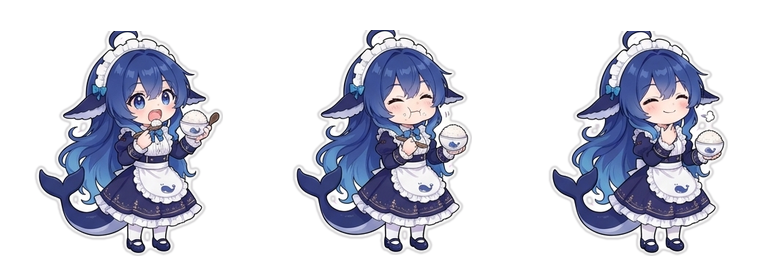
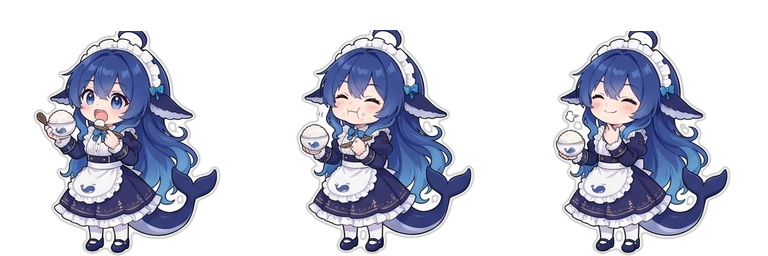
feat(assets): 素材统一朝左基准——walk/eat 镜像 + flip 基准切换
用户指出素材本身有朝向（逐帧像素审计证实：头部左右比显著偏离 1，
且各状态不一致——idle/working/think 等偏左、walk/eat 偏右）。
确立角色契约：素材一律朝左（flip=1 朝左、flip=-1 镜像朝右），
代码不依赖具体角色朝向（第二个角色零代码接入）。walk/eat 逐帧
镜像为偏左；walk/drag 的 flip 映射取反（向右走 flip=-1）；
joy/welcome 帧内朝向不一致（AI 抖动）镜像无效，sprites-spec
标注需重绘。更新 facing 决策（修正『素材无朝向』前提）。
14 门禁全过，冒烟 OK。

diff --git a/client.js b/client.js
@@ -891,7 +891,7 @@
         transientUntil = 0;
         joyUntil = 0;
         layoutStatus();
-        const nextFlip = e.clientX < lastPointerX ? -1 : 1;
+        const nextFlip = e.clientX < lastPointerX ? 1 : -1;
         if (nextFlip !== flip) {
           flip = nextFlip;
           const dragCfg = stateOf(character, "drag");
@@ -995,7 +995,7 @@
     const wander = () => {
       walking = true;
       walkDir = Math.random() < 0.5 ? 1 : -1;
-      flip = walkDir;
+      flip = -walkDir;
       const walkCfg = stateOf(character, "walk");
       if (animState === "walk" && walkCfg && loaded.has(sheetKey(walkCfg.sheet))) showSprite("walk", walkCfg);
       const duration = cfg.walk.minMs + Math.random() * (cfg.walk.maxMs - cfg.walk.minMs);

diff --git a/decisions/implemented/feature/2026-08-09-facing-flip-behavior.md b/decisions/implemented/feature/2026-08-09-facing-flip-behavior.md
@@ -1,29 +1,34 @@
-# Decision: 朝向（flip）行为——动作间连续 + 静态态随机转身
+# Decision: 朝向（flip）行为——素材统一朝左基准 + 动作间连续 + 静态态随机转身
 
 Status: implemented
 
 ## Problem
 
-素材本身无朝向（内容水平居中），朝向完全由 client `flip`（scaleX 翻转）表达。但现状 flip 只在两处写入：walk（随机左右）与 drag（按位移方向），且**只在 `showSprite` 时应用**——静态陪伴态（idle/think/wait）没有朝向概念：不会随机转身，且 flip 变化时若当前是静态态不会刷新 sprite（只有 walk/drag 恰好是当前状态时才重新 showSprite）。用户反馈：「所有图片实际上是有方向的，应该考虑动作间的朝向连续性、随机朝向转换」。
+两轮问题。**第一轮**（已实施）：flip 只在两处写入（walk 随机左右、drag 按位移），只在 `showSprite` 时应用——静态陪伴态（idle/think/wait）没有朝向概念：不会随机转身，flip 变化时不刷新 sprite。**第二轮**（本次）：用户指出「素材本身是有朝向的」——逐帧像素审计证实：素材**不是**正面/对称形象（参考图完全对称，但生成的状态素材头部区左右像素比显著偏离 1：idle 2.5、working 1.9、walk 0.35 等），且**各状态朝向不一致**（idle/working/celebrate/error/disappointed/drag/think/wait 偏左；walk/eat/joy/welcome 偏右或混合）——动作切换时角色「瞬间换脸」。
 
 ## Decision
 
+- **素材统一朝左基准（角色契约，全角色适用）**：所有状态素材人物默认朝左（flip=1 显示朝左、flip=-1 镜像显示朝右）。生图提示模板加「人物朝向一律朝左」；代码 flip 以朝左为基准（walk 向右走 flip=-1、向左走 flip=1；drag 向左拖 flip=1、向右拖 flip=-1；静态态随机转身 flip 翻转）。**代码不依赖具体角色朝向**——第二个角色遵守素材契约即零代码改动（解耦）。
+- **素材修正**：walk/eat 逐帧镜像为偏左（帧内一致，脚本处理）；joy/welcome 帧内朝向不一致（AI 生图抖动）镜像无效，列入重绘待办（sprites-spec 标注）。
 - **动作间朝向连续**：flip 是模块级状态，walk/drag 的方向写入后，静态态（idle/think/wait）沿用其值渲染（setState 的 showSprite 读当前 flip）——不无谓跳回默认方向。
-- **静态态随机转身**：新增纯函数 `nextFacingAt({ now, random })`（间隔 10-25s，L2 语义层代码级）决策转身时刻；tick 里静态态（idle/think/wait）到点时 `flip = -flip` 并 `applyFacing()` 刷新当前 sprite transform（不动帧/背景）；离开静态态清排程（walk/drag/burst/transient 方向由各自行为主导，不随机转）。
-- **`applyFacing` 刷新封装**：复用 showSprite 的 scale 计算，只更新 transform——静态态转身不需要重建 sprite。
+- **静态态随机转身**：新增纯函数 `nextFacingAt({ now, random })`（间隔 10-25s，L2 语义层代码级）决策转身时刻；tick 里静态态（idle/think/wait）到点时 `flip = -flip` 并 `applyFacing()` 刷新当前 sprite transform（不动帧/背景）；离开静态态清排程。
+- **`applyFacing` 刷新封装**：复用 showSprite 的 scale 计算，只更新 transform。
 - 沿用 v3/v4 纪律：随机决策在纯函数（注入随机源、可单测），index.mjs 薄执行。
 
 ## Alternatives considered
 
-**A：素材层面画朝向（多方向图集）。** 素材内容居中且 AI 生图已成本高（每状态每方向重复生成），flip 是零成本方案；且 walk/drag 已用 flip 表达方向——弃。
+**A：素材层面画朝向（多方向图集）。** AI 生图成本高（每状态每方向重复生成）；flip 是零成本方案且已用 flip 表达方向——弃。
 
-**B：静态态不转身，只保持 walk/drag 方向。** 满足连续性但不满足「随机朝向转换」——宠物长时间面朝一个方向不自然（真实宠物会东张西望）——弃。
+**B：静态态不转身，只保持 walk/drag 方向。** 满足连续性但不满足「随机朝向转换」——宠物长时间面朝一个方向不自然——弃。
 
 **C：转身做成独立动画状态（turn）。** 需要新增素材（转身中间帧）、manifest 条目、spec 总表——成本高；flip 翻转本身已是「转身」视觉（sprite 镜像），无需中间帧——弃。
 
+**D：不统一素材（保留各状态朝向），代码按角色/状态归一化。** 代码需知道每个状态朝向（manifest facing 字段 + 运行时镜像），每个新角色都要声明——违背「代码解耦」目标；统一素材朝左是零代码负担的契约——弃。
+
 ## Consequences
 
-- 朝向连续：walk 朝左停下 → idle/think 保持朝左；drag 方向延续。
-- 静态态随机转身（10-25s），宠物不再长时间固定朝向。
-- 测试：新增 `nextFacingAt` 确定性测试（注入随机源，区间边界）；单测 102 条全绿，14 门禁全过。
-- 纯 client 改动：重装 + 刷新生效，无需重启 web。
+- 素材统一朝左：walk/eat 已镜像；joy/welcome 帧内不一致需重绘（sprites-spec 已标注）；代码 flip 基准改为朝左（walk/drag 方向映射取反）。
+- 朝向连续：walk 朝左停下 → idle/think 保持朝左；drag 方向延续；静态态随机转身（10-25s）。
+- 第二个角色零代码接入朝向（只需素材朝左）。
+- 测试：`nextFacingAt` 确定性测试（注入随机源，区间边界）；单测 102 条全绿，14 门禁全过。
+- 素材改动（walk/eat 镜像）+ client 改动：重装 + 刷新生效，无需重启 web。

diff --git a/docs/sprites-spec.md b/docs/sprites-spec.md
@@ -28,7 +28,7 @@
 
 **背景要求（关键）**：**纯绿色 `#00FF00`**——鲸鱼娘配色（蓝/紫/粉）与洋红底在色域重叠（实测反复出现洋红残边/微斑），与绿色**完全不相交**（距离 360+），键抠零歧义。❌ 洋红/粉/紫底（与角色配色冲突）；❌ 白/浅灰底；❌ "透明背景"提示（Gemini 只画假透明棋盘格）。
 
-> 生成一张 1024×1024 的贴纸插画：背景为**纯绿色（#00FF00）**，无渐变/纹理/杂色。角色是《鲸鱼娘》表情包角色，画风、配色、线条比例与参考图完全一致，角色本身**不得含洋红色**；全身取景、居中、占画面约 80%。**<状态画面描述>**。需要动感的状态加一句："画面为 **N 个动作帧横排**（从左到右依次为动作过程），帧间等宽、互不重叠、无分割线"。
+> 生成一张 1024×1024 的贴纸插画：背景为**纯绿色（#00FF00）**，无渐变/纹理/杂色。角色是《鲸鱼娘》表情包角色，画风、配色、线条比例与参考图完全一致，角色本身**不得含洋红色**；全身取景、居中、占画面约 80%，**人物朝向一律朝左**（统一素材朝向基准，见「朝向与素材朝向规范」）。**<状态画面描述>**。需要动感的状态加一句："画面为 **N 个动作帧横排**（从左到右依次为动作过程），帧间等宽、互不重叠、无分割线"。
 
 | 状态 | 帧数 | 画面描述 |
 |---|---|---|
@@ -70,9 +70,13 @@
 | `think` | 任一会话运行中（sessions 订阅，陪伴底座） | 1 | `float` | ✓ | 沉思陪伴（托腮望向远处，上下浮动） |
 | `wait` | 任一会话等待批准（sessions 订阅，陪伴底座） | 1 | `wiggle` | ✓ | 等待回应（前倾看向观众，左右摇摆） |
 
-### 朝向（flip）
+### 朝向（flip）与素材朝向规范
 
-素材本身无朝向（内容水平居中），朝向由 client 的 `flip`（`scaleX` 翻转）表达。方向写入点：**walk**（按移动方向，随机左右）、**drag**（按拖拽位移方向）；静态陪伴态（`idle`/`think`/`wait`）在 walk/drag 结束后沿用其方向（**动作间朝向连续**，不无谓跳回默认），并**随机转身**（`nextFacingAt`，间隔 10-25s，见 [state-machine.md](state-machine.md)）。
+**素材统一朝左基准**（角色契约，全角色适用）：所有状态素材的人物默认朝左（flip=1 显示朝左、flip=-1 镜像显示朝右）。生图时人物一律朝左；代码 flip 以朝左为基准（walk 向右走 flip=-1、向左走 flip=1；drag 向左拖 flip=1、向右拖 flip=-1；静态态随机转身 flip 翻转）。**代码不得依赖具体角色的朝向**——素材契约保证 flip=1 恒为朝左，第二个角色同样遵守即零代码改动。
+
+方向写入点：**walk**（按移动方向）、**drag**（按拖拽位移方向）；静态陪伴态（`idle`/`think`/`wait`）沿用其方向（**动作间朝向连续**，不无谓跳回默认），并**随机转身**（`nextFacingAt`，间隔 10-25s，见 [state-machine.md](state-machine.md)）。
+
+**已知素材缺陷**：`joy`（帧0 偏右/帧1 偏左，头比 0.5 vs 2.06）、`welcome`（0.63 vs 1.35）**帧内朝向不一致**（AI 生图抖动）——镜像无法修复（只对单帧正确），需重绘统一为朝左。
 
 优先级（[client/logic.mjs](../client/logic.mjs)）：`drag` > 事件 burst（`welcome`/`celebrate`/`error`/`disappointed` 窗口内）> 瞬发（`eat`/`play`/`wake`）> `wait` > 回合完成 `celebrate`（client 本地窗口）> `working`（随机插曲）> `think` > `joy` > `sleep` > `walk` > `idle`。会话活跃时宠物保持清醒陪伴（覆盖 `sleep`/`walk`），用户互动与事件反馈不抢戏。
 

diff --git a/docs/state-machine.md b/docs/state-machine.md
@@ -58,7 +58,7 @@ drag > dragRelease(idle 缓冲) > burst(welcome/celebrate/error/disappointed)
 - **瞬发/覆盖态结束后**：不硬编码回 idle——重新计算底层派生状态（`pickState` 每 tick 重算）。
 - **临时覆盖不抢戏**：事件 burst > 用户互动 > 陪伴态；失败情绪不被新会话欢迎盖掉（welcome 不打断 error/disappointed 尾段）。
 - **会话活跃保持清醒**：think/wait 覆盖 sleep/walk（陪伴底座）。
-- **朝向连续 + 随机转身**：方向（flip）由 walk/drag 写入，静态态沿用（不无谓跳回默认）；idle/think/wait 随机转身（`nextFacingAt`，10-25s 间隔）。素材无朝向（内容居中），flip 即朝向。
+- **朝向连续 + 随机转身**：素材统一朝左基准（flip=1 朝左、flip=-1 镜像朝右）；方向由 walk/drag 写入（walk 向右走 flip=-1、向左走 flip=1；drag 同向），静态态沿用（不无谓跳回默认）；idle/think/wait 随机转身（`nextFacingAt`，10-25s 间隔）。素材规范见 [sprites-spec.md](sprites-spec.md)。
 
 ## 扩展指引（给新角色/新状态）
 
